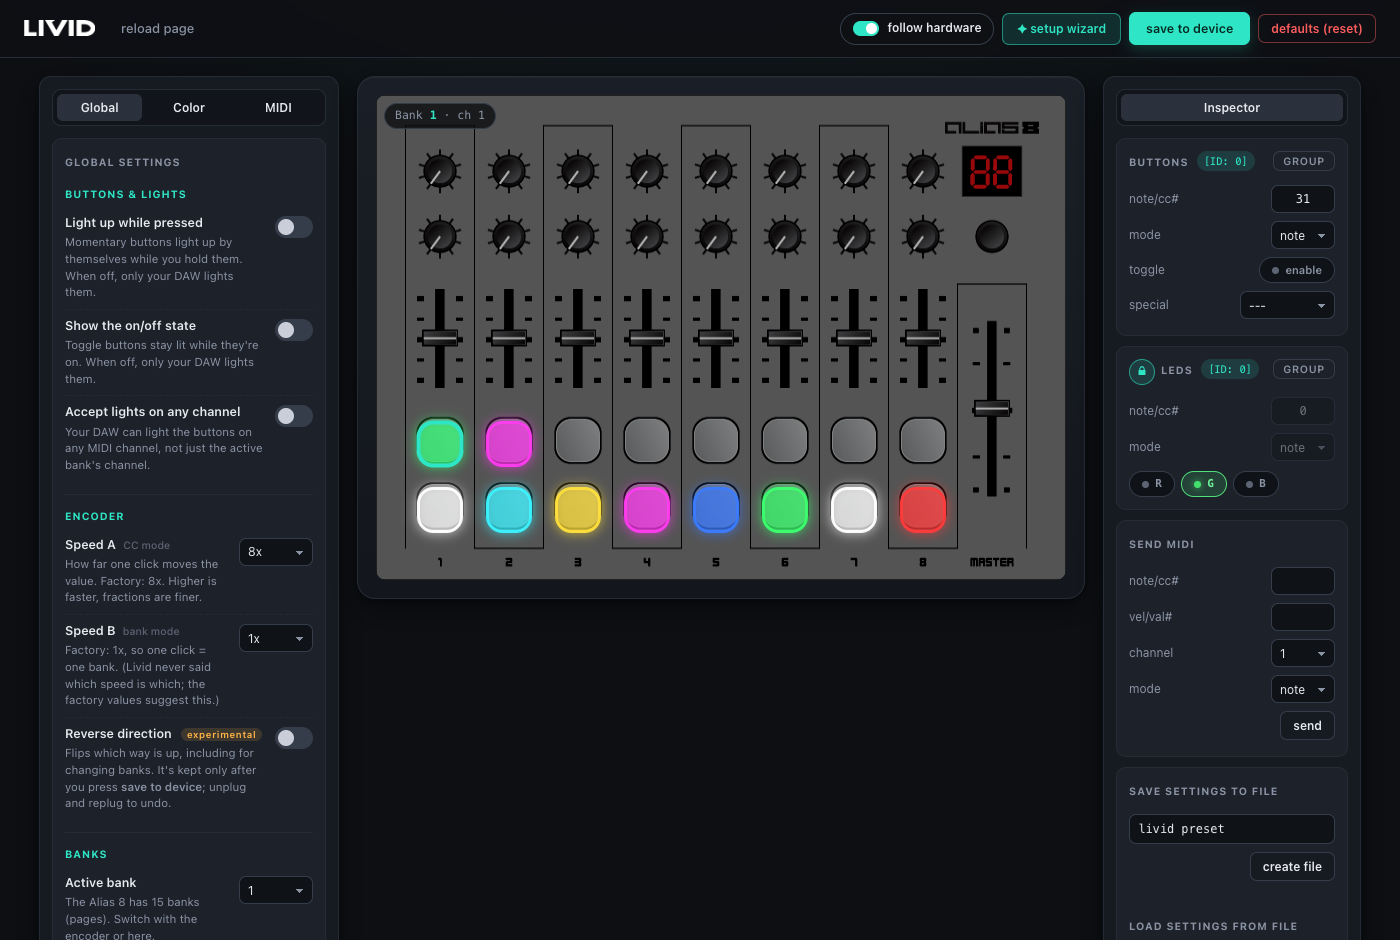
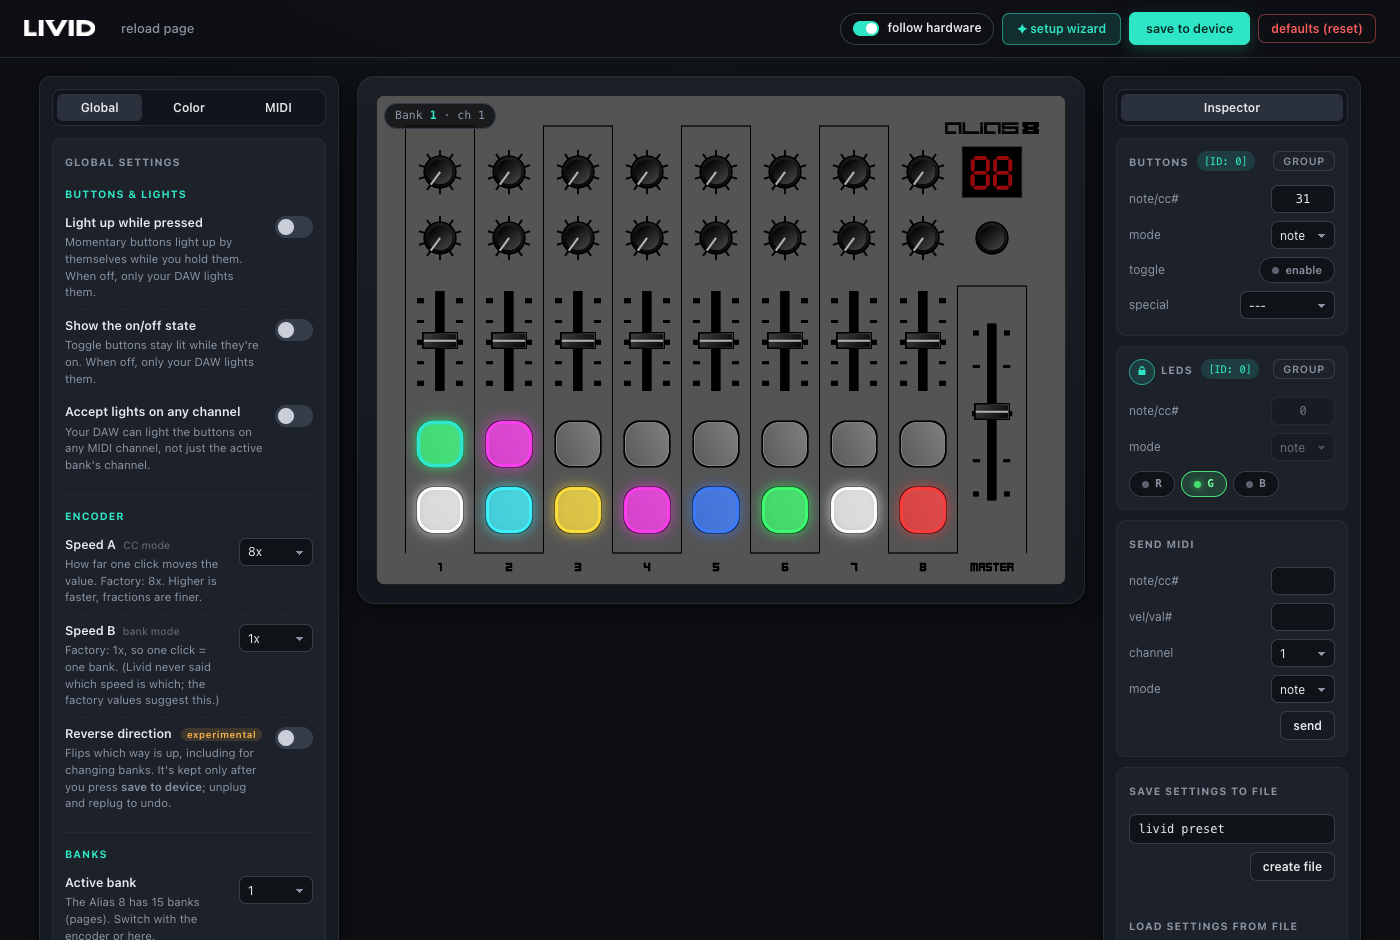
Faceplate picture at its own size (OhmRGB was stretched); retake screenshots

diff --git a/app/js/uitocontroller.js b/app/js/uitocontroller.js
@@ -666,10 +666,10 @@ dim[1]=[700,600]; //brain - placholder
 dim[2]=[705,400]; //ohm64
 dim[3]=[542,541]; //block
 dim[4]=[654,392]; //code v2
-dim[7]=[705,743]; //ohmrgb
+dim[7]=[705,453]; //ohmrgb (was 743: taller than the picture, which left an empty area under it)
 dim[8]=[707,516]; //cntrl:r
 dim[9]=[700,600]; //brain v2 - placholder
-dim[11]=[690,485]; //alias
+dim[11]=[690,490]; //alias (the picture is 490 high)
 dim[12]=[700,607]; //base
 dim[13]=[700,600]; //brain jr - placholder
 dim[16]=[802,712]; //DS1 
@@ -786,7 +786,7 @@ function product(v){
 	$('#canvas').height(dim[pid][1]);
 	$('#paper').width(dim[pid][0]);
 	$('#paper').height(dim[pid][1]);
-	$('#faceplate_img').attr('src','app/faceplate_'+pid+'.gif').css({width: dim[pid][0], height: dim[pid][1]}); //drawn under the Raphael layer (see style.css)
+	$('#faceplate_img').attr('src','app/faceplate_'+pid+'.gif').css({width: "auto", height: "auto"}); //drawn under the Raphael layer (see style.css), at its own size like the original editor's background (dim[] can differ from the picture: OhmRGB 743 vs 453 px high)
 	$('#inspectors').width(dim[pid][0]);
 	//console.log("BANK COUNT "+bankcount);
 	//remove any extra bank channel inputs (code has less than alias, for example)

diff --git a/Docs/Changes.html b/Docs/Changes.html
@@ -182,4 +182,5 @@ th{background:#1a1f28;color:#fff}tr:nth-child(even) td{background:#12151b}strong
 <li>README rewritten for any Livid controller: which models are supported and tested, how to start it on any system, what the wizard templates do.</li>
 <li>Wizard: the Ableton template is now called "For the Alias8_Live script" and says it is only for that script.</li>
 <li>README: screenshots of the editor with the Alias 8, OhmRGB, CNTRL:R, Base II, DS1 and Code (<code>screenshots/</code>).</li>
+<li>Fix: the faceplate picture is shown at its own size again (as in the original editor). It was stretched to the faceplate box: the OhmRGB looked tall (box 743 px, picture 453 px), the DS1 a little wide and the Alias 8 5 px short. OhmRGB box now 453 px high, Alias 8 490 px. Screenshots retaken.</li>
 </ul></body></html>

diff --git a/Docs/CHANGES.md b/Docs/CHANGES.md
@@ -170,3 +170,4 @@ Open `index.html` in **Google Chrome** or **Microsoft Edge** and allow MIDI / sy
 - README rewritten for any Livid controller: which models are supported and tested, how to start it on any system, what the wizard templates do.
 - Wizard: the Ableton template is now called "For the Alias8_Live script" and says it is only for that script.
 - README: screenshots of the editor with the Alias 8, OhmRGB, CNTRL:R, Base II, DS1 and Code (`screenshots/`).
+- Fix: the faceplate picture is shown at its own size again (as in the original editor). It was stretched to the faceplate box: the OhmRGB looked tall (box 743 px, picture 453 px), the DS1 a little wide and the Alias 8 5 px short. OhmRGB box now 453 px high, Alias 8 490 px. Screenshots retaken.
